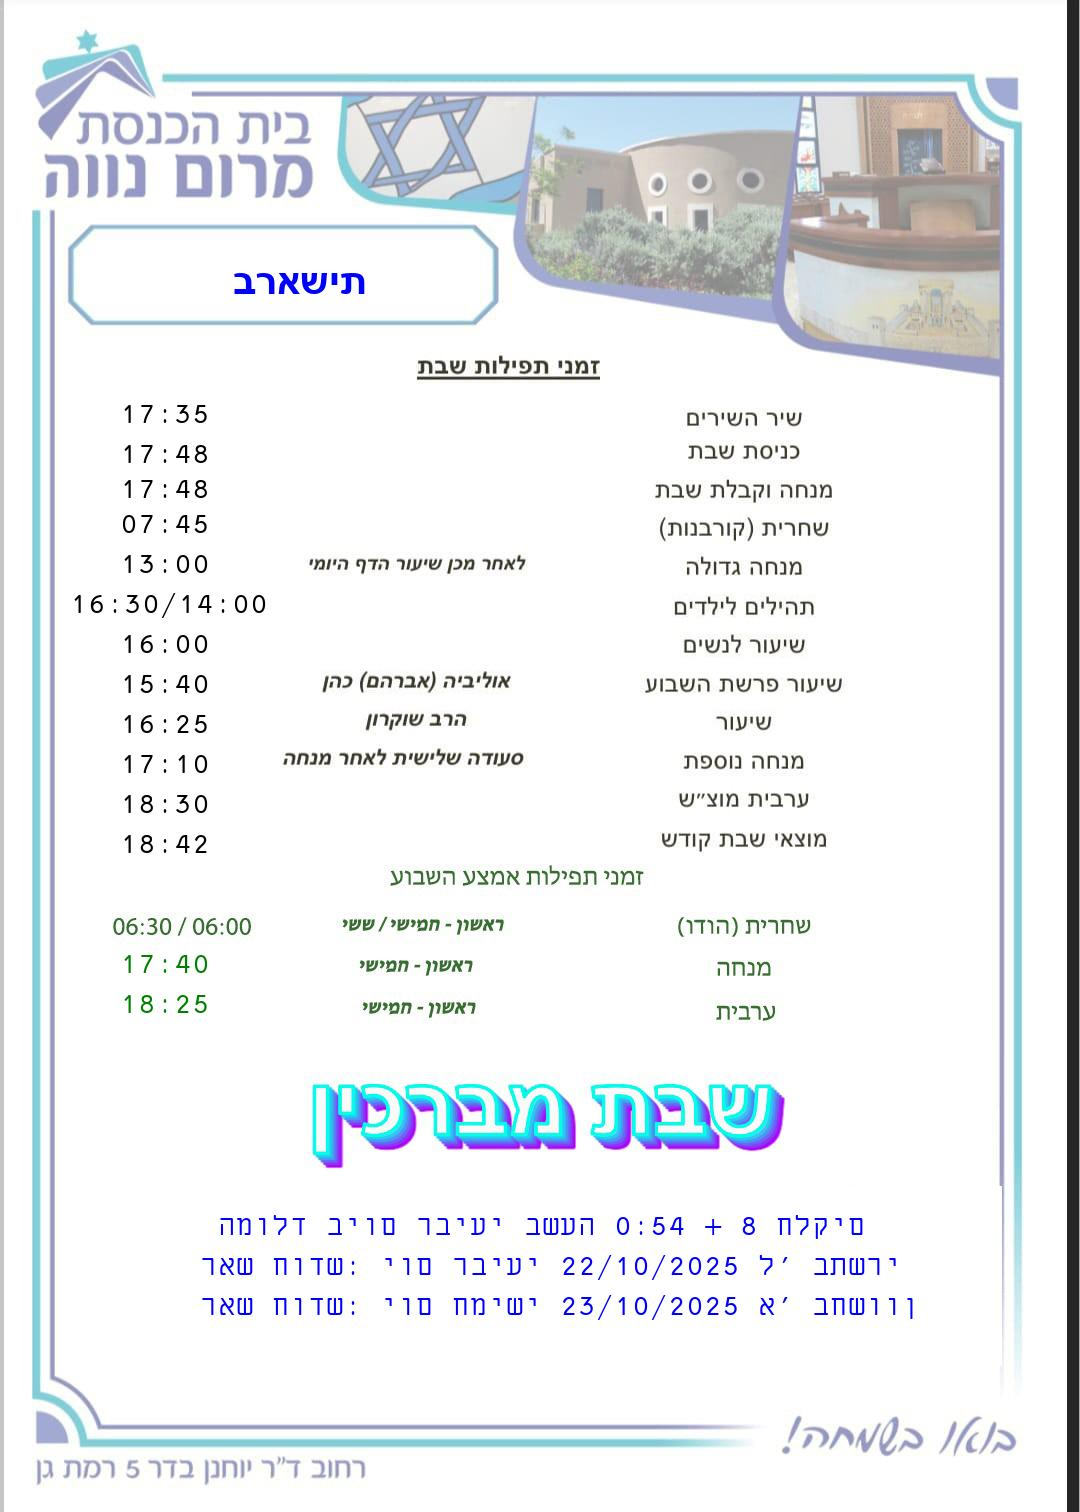
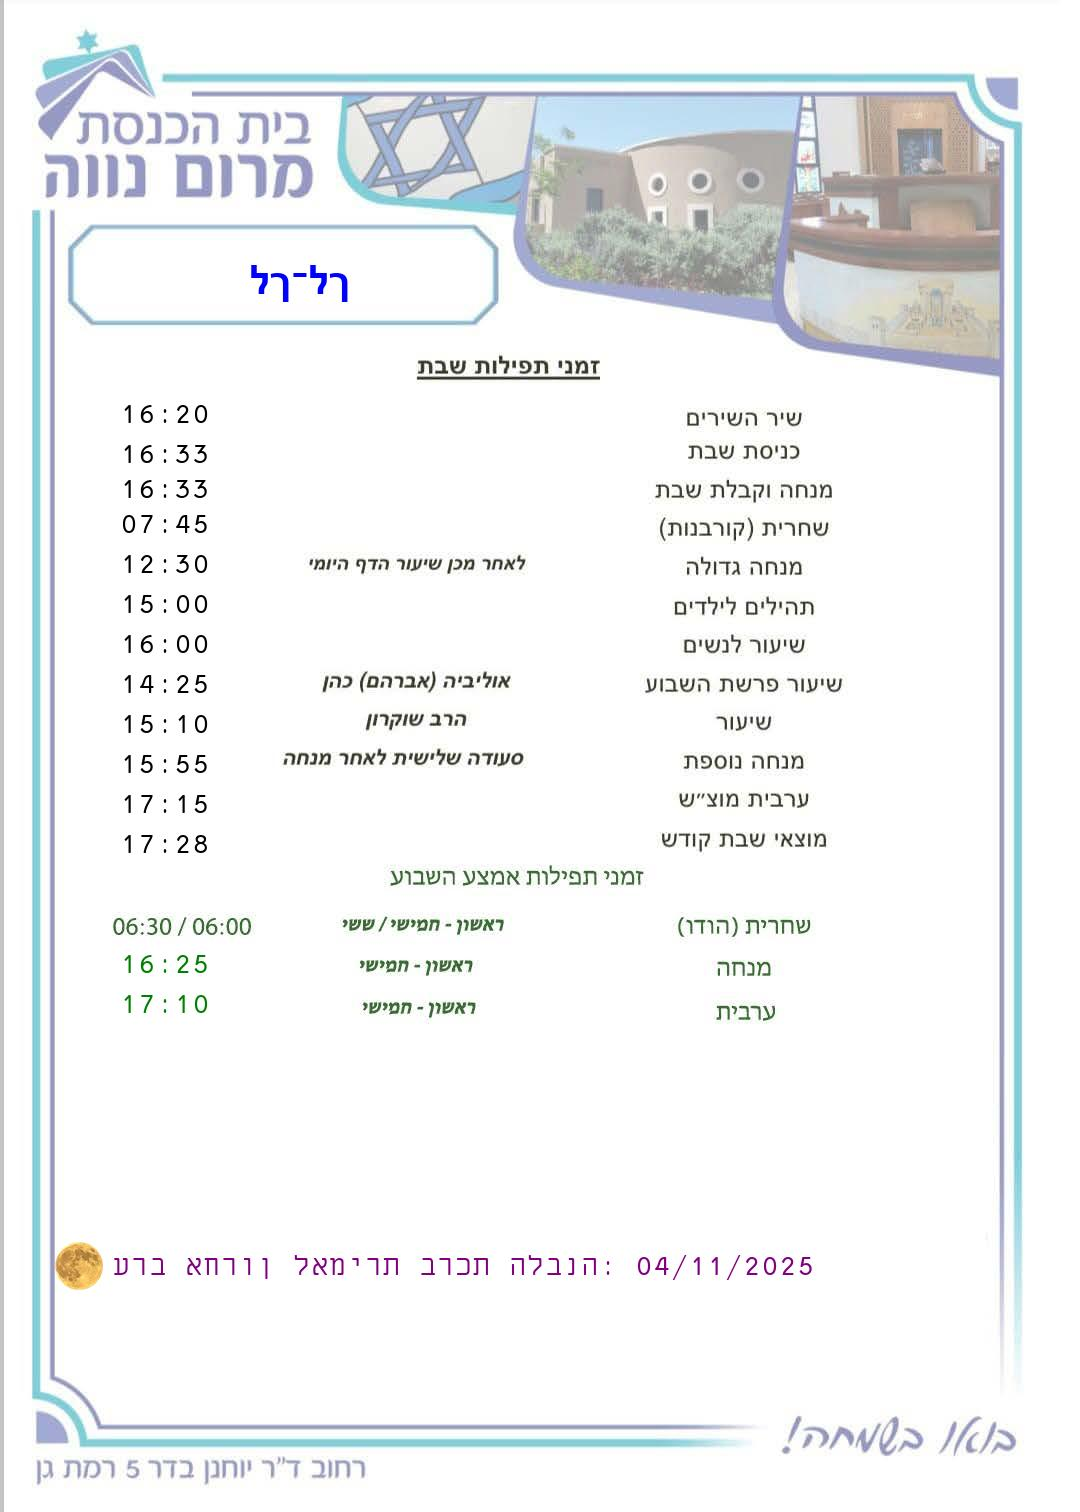
winter

diff --git a/horaires_shabbat.py b/horaires_shabbat.py
@@ -106,7 +106,7 @@ def calculate_last_kiddush_levana_date(gregorian_date):
         minutes=molad_obj.molad_minutes,
         seconds=molad_obj.molad_chalakim * 10 / 18
     )
-    latest_time = molad_dt + timedelta(days=12, hours=18)
+    latest_time = molad_dt + timedelta(days=13, hours=18)
     return molad_dt, latest_time
 
 def find_next_rosh_chodesh(date_):
@@ -761,7 +761,7 @@ class ShabbatScheduleGenerator:
             "mincha_kabbalat": start_minutes,
             "shir_hashirim": self.round_to_nearest_five(start_minutes - 10),
             "shacharit": self.round_to_nearest_five(7 * 60 + 45),
-            "mincha_gdola": self.round_to_nearest_five(12 * 60 + (30 if self.season == "winter" else 60)),
+            "mincha_gdola": self.round_to_nearest_five(12 * 60 + (45 if self.season == "winter" else 60)),
             "tehilim": tehilim,
             "tehilim_ete": tehilim_ete,
             "tehilim_hiver": tehilim_hiver,
